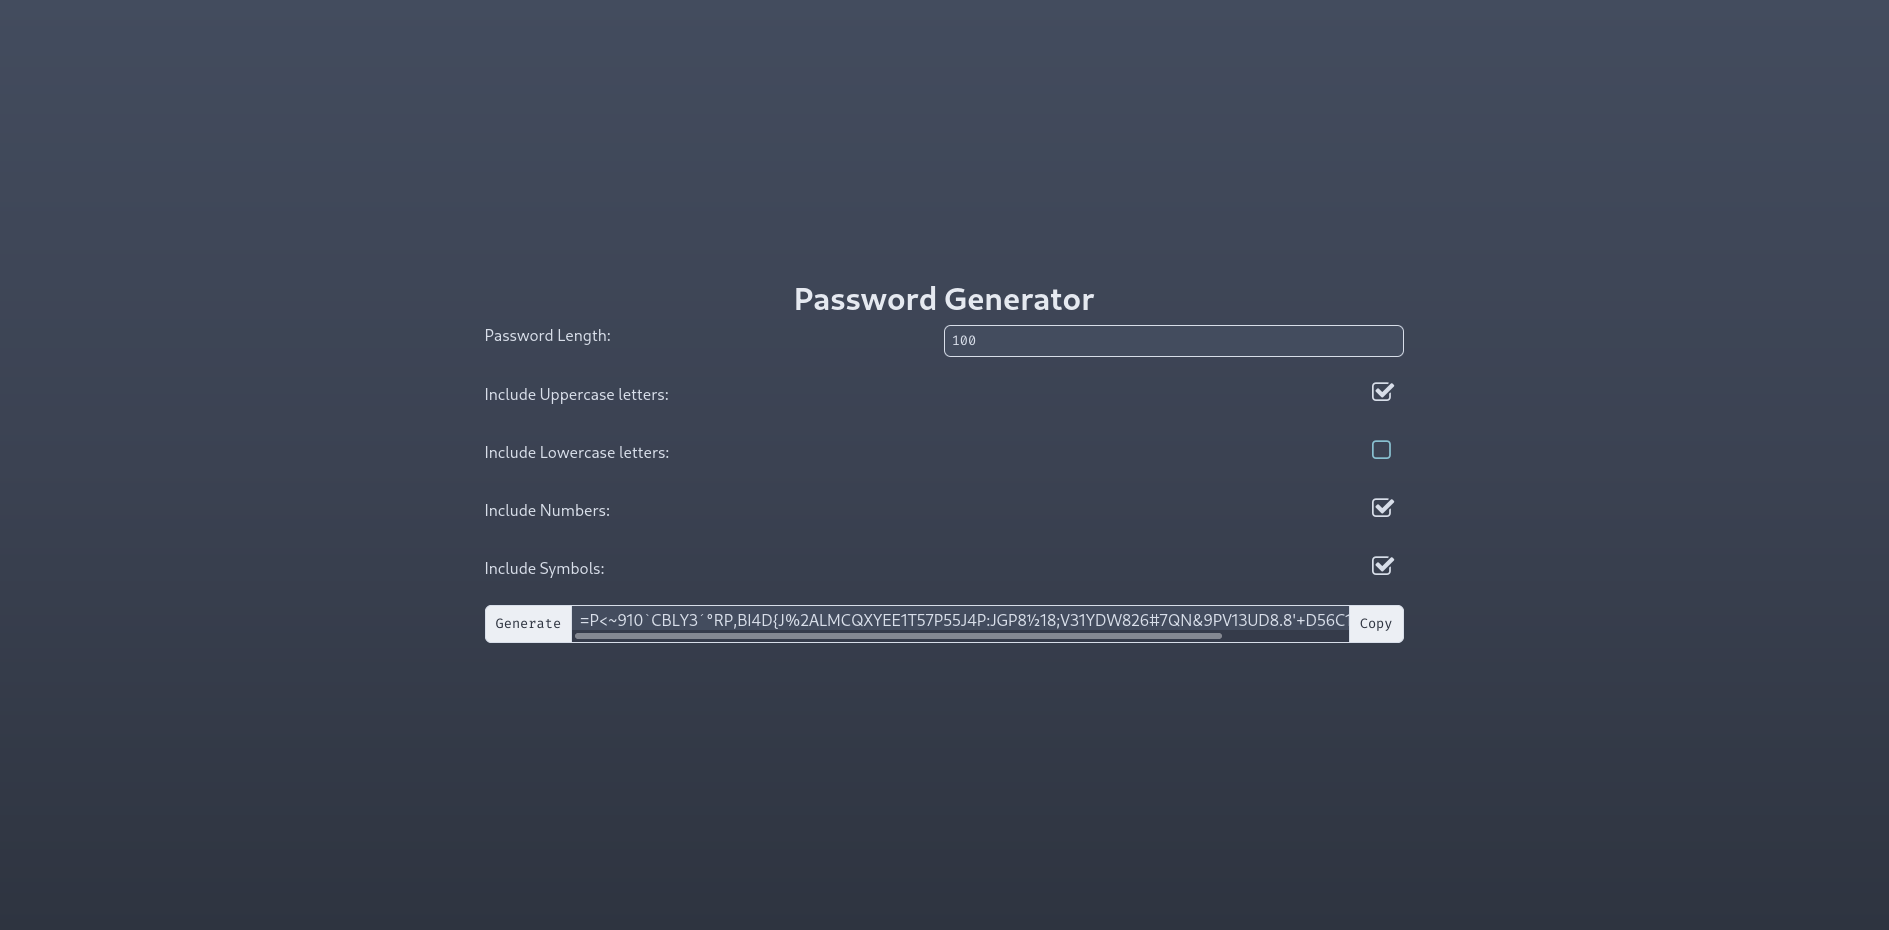
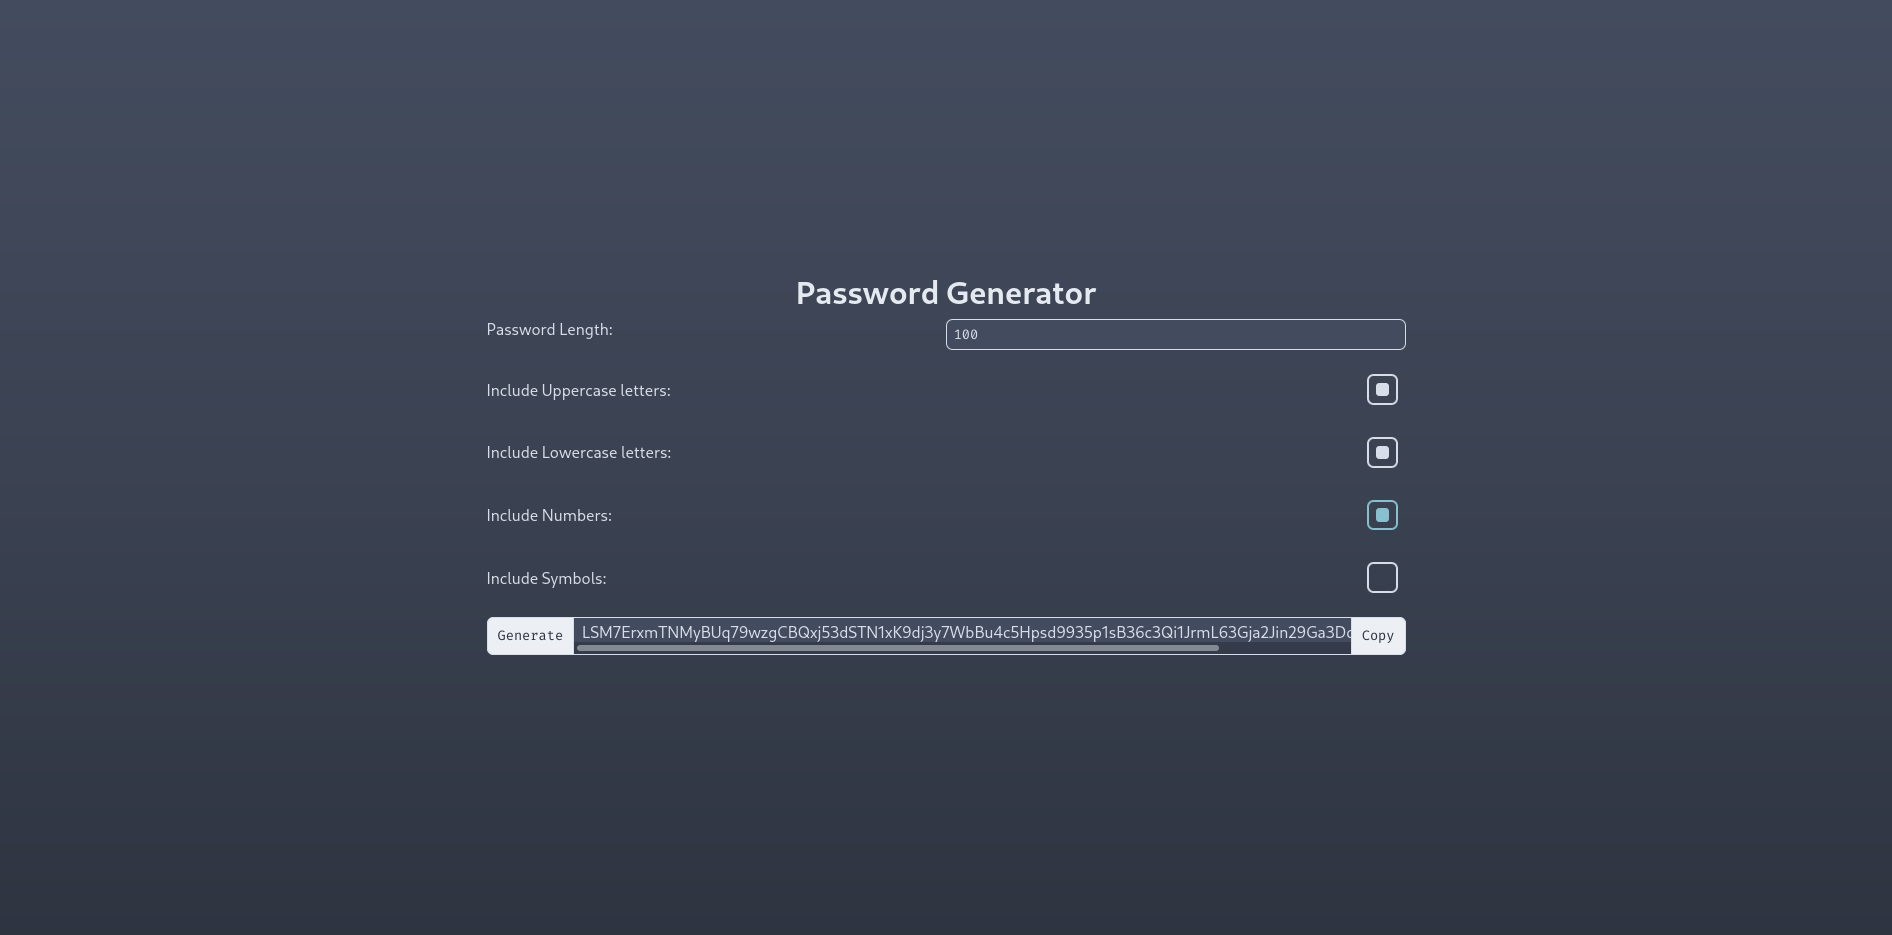
Refactor checkbox symbol and numberinput check
Symbols on checkbox were not general symbols, so it's been rewritten
Now its a div inside the button, switching opacity if checked
Numberinput passed NaN as valid since that is also a number
Therefore, it just adds a check for it and not update if it is NaN

diff --git a/src/components/checkbox/checkbox.module.scss b/src/components/checkbox/checkbox.module.scss
@@ -14,17 +14,34 @@
 
   .checkbox {
     flex: 0 1;
+    padding: .5em;
 
     button {
       cursor: pointer;
-      border: none;
+
       background: none;
-      color: getNord(4);
-      font-size: 1.5rem;
+      border: 2px solid getNord(4);
+      border-radius: .5em;
+      padding: .5em;
 
       &:focus {
         outline: none;
-        color: getNord(8);
+        border: 2px solid getNord(8);
+
+        .checker {
+          background: getNord(8);
+        }
+      }
+
+      .checker {
+        width: 1em;
+        height: 1em;
+        border-radius: .25em;
+
+        opacity: var(--opacity, 1);
+        background: getNord(4);
+
+        transition: all .125s;
       }
 
       transition: all .25s;

diff --git a/src/components/checkbox/checkbox.tsx b/src/components/checkbox/checkbox.tsx
@@ -1,4 +1,4 @@
-import React, { useState } from 'react'
+import React, { useState, CSSProperties } from 'react'
 import styles from './checkbox.module.scss'
 
 interface CheckboxProps {
@@ -22,7 +22,7 @@ export default function Checkbox({ prompt, onChange, defaultValue = false}:Check
       </div>
       <div className={styles.checkbox}>
         <button onClick={onClick}>
-          {isChecked ? '  ' : '  '}
+          <div className={styles.checker} style={{ '--opacity': isChecked ? 1 : 0 } as CSSProperties}></div>
         </button>
       </div>
     </div>

diff --git a/src/components/numberinput/numberinput.tsx b/src/components/numberinput/numberinput.tsx
@@ -15,6 +15,8 @@ export default function NumberInput({ prompt, onChange, max, min }:NumberInputPr
     try {
       const numValue = +value
 
+      if(isNaN(numValue)) return
+
       const newValue = Math.max(min, Math.min(numValue, max)) // Make sure value is between interval
       setInputValue(newValue)
       onChange(newValue)
